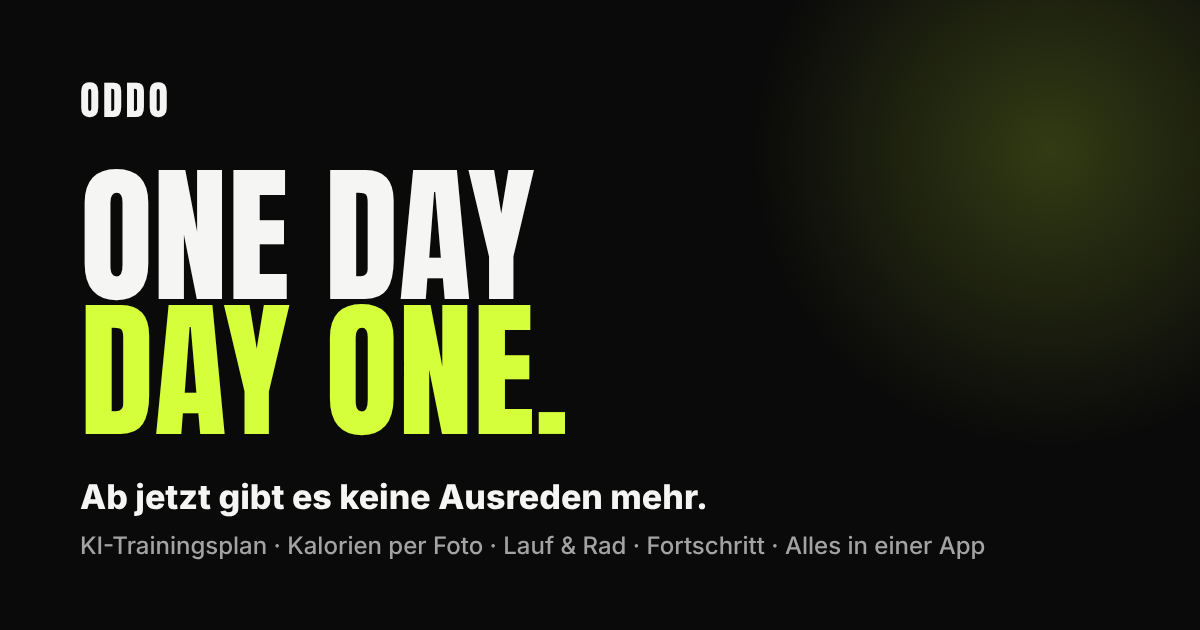
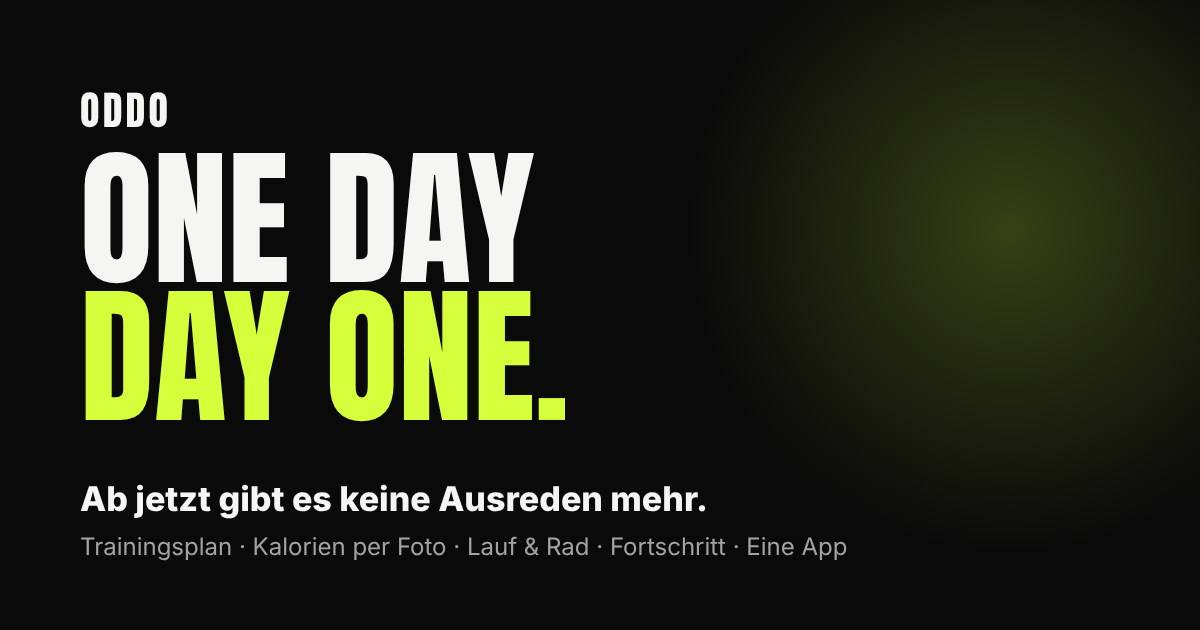
Landing SEO: search pages per topic and language, own preview image per language
Nine pages for calories by photo, workout plan and MyFitnessPal alternative
in DE/TR/EN, linked from the footer and listed in the sitemap. The preview
image no longer says KI-Trainingsplan, and Turkish headlines get room for
their dots and cedillas.

Claude-Session: https://claude.ai/code/session_011SNK64ayQmyNENjrK3HnZ4

diff --git a/landing/index.html b/landing/index.html
@@ -8,6 +8,7 @@
   <meta name="theme-color" content="#0a0a0a">
   <link rel="canonical" href="https://oddo-app.netlify.app/">
   <link rel="icon" href="/favicon.svg" type="image/svg+xml">
+  <link rel="apple-touch-icon" href="/apple-touch-icon.png">
   <meta property="og:type" content="website">
   <meta property="og:site_name" content="ODDO">
   <meta property="og:url" content="https://oddo-app.netlify.app/">
@@ -50,6 +51,8 @@
     .wrap { max-width: 1120px; margin: 0 auto; padding: 0 20px; }
     .display { font-family: Anton, Impact, sans-serif; font-weight: 400; text-transform: uppercase; letter-spacing: 0.01em; line-height: 0.92; }
     .accent { color: var(--accent); }
+    /* Turkish capitals carry dots and cedillas (İ, Ş, Ç, Ğ) that collide at the tight display line height. */
+    html[lang="tr"] .display { line-height: 1.04; }
 
     /* Buttons */
     .btn {
@@ -140,6 +143,8 @@
     .stores { margin-top: 14px; font-size: 13px; color: var(--muted); }
     footer .legal { display: flex; gap: 18px; flex-wrap: wrap; }
     footer .legal a { color: var(--dim); }
+    footer .topics { display: flex; gap: 18px; flex-wrap: wrap; }
+    footer .topics a { color: var(--muted); }
 
     /* Phone screen */
     .scr-budget { background: var(--surface); border: 1px solid var(--border); border-radius: 20px; padding: 14px 16px; }
@@ -492,6 +497,7 @@
     <div class="wrap">
       <span class="logo" style="font-size:18px;color:var(--muted)">ODDO</span>
       <span data-i18n="footer"></span>
+      <span class="topics"></span>
       <span class="legal">
         <a data-legal="datenschutz" href="/datenschutz.html" data-i18n="privacy"></a>
         <a data-legal="agb" href="/agb.html" data-i18n="terms"></a>
